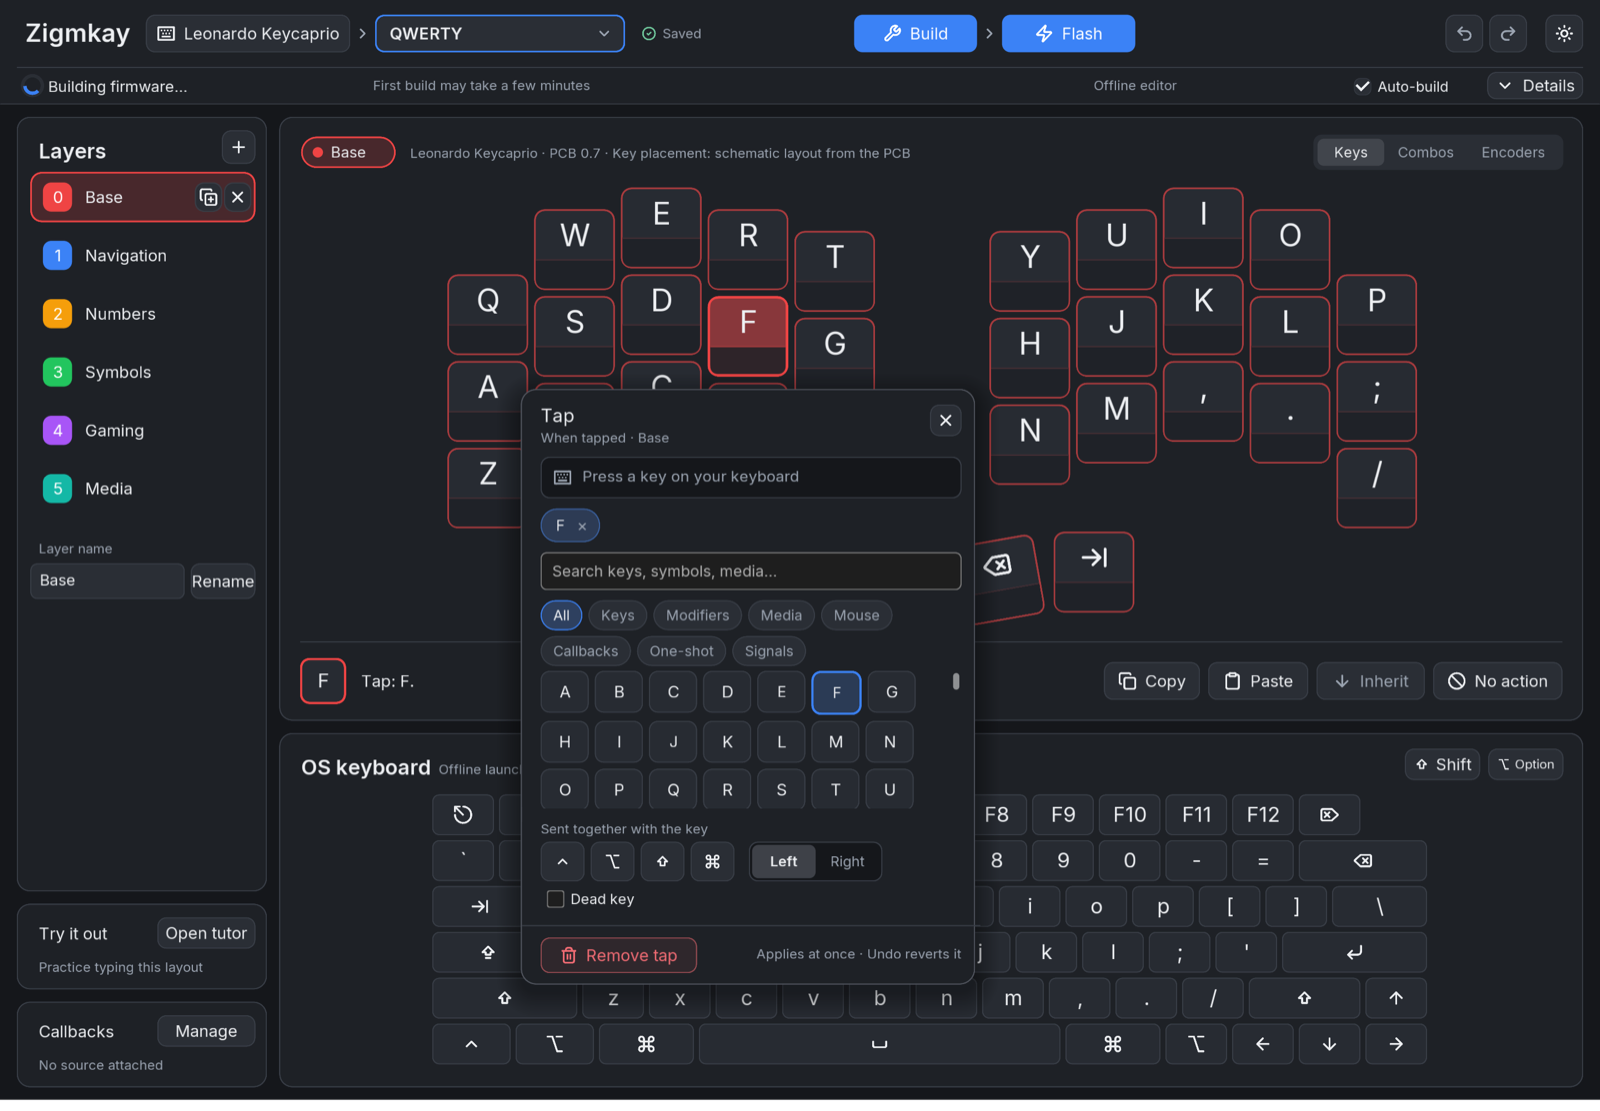
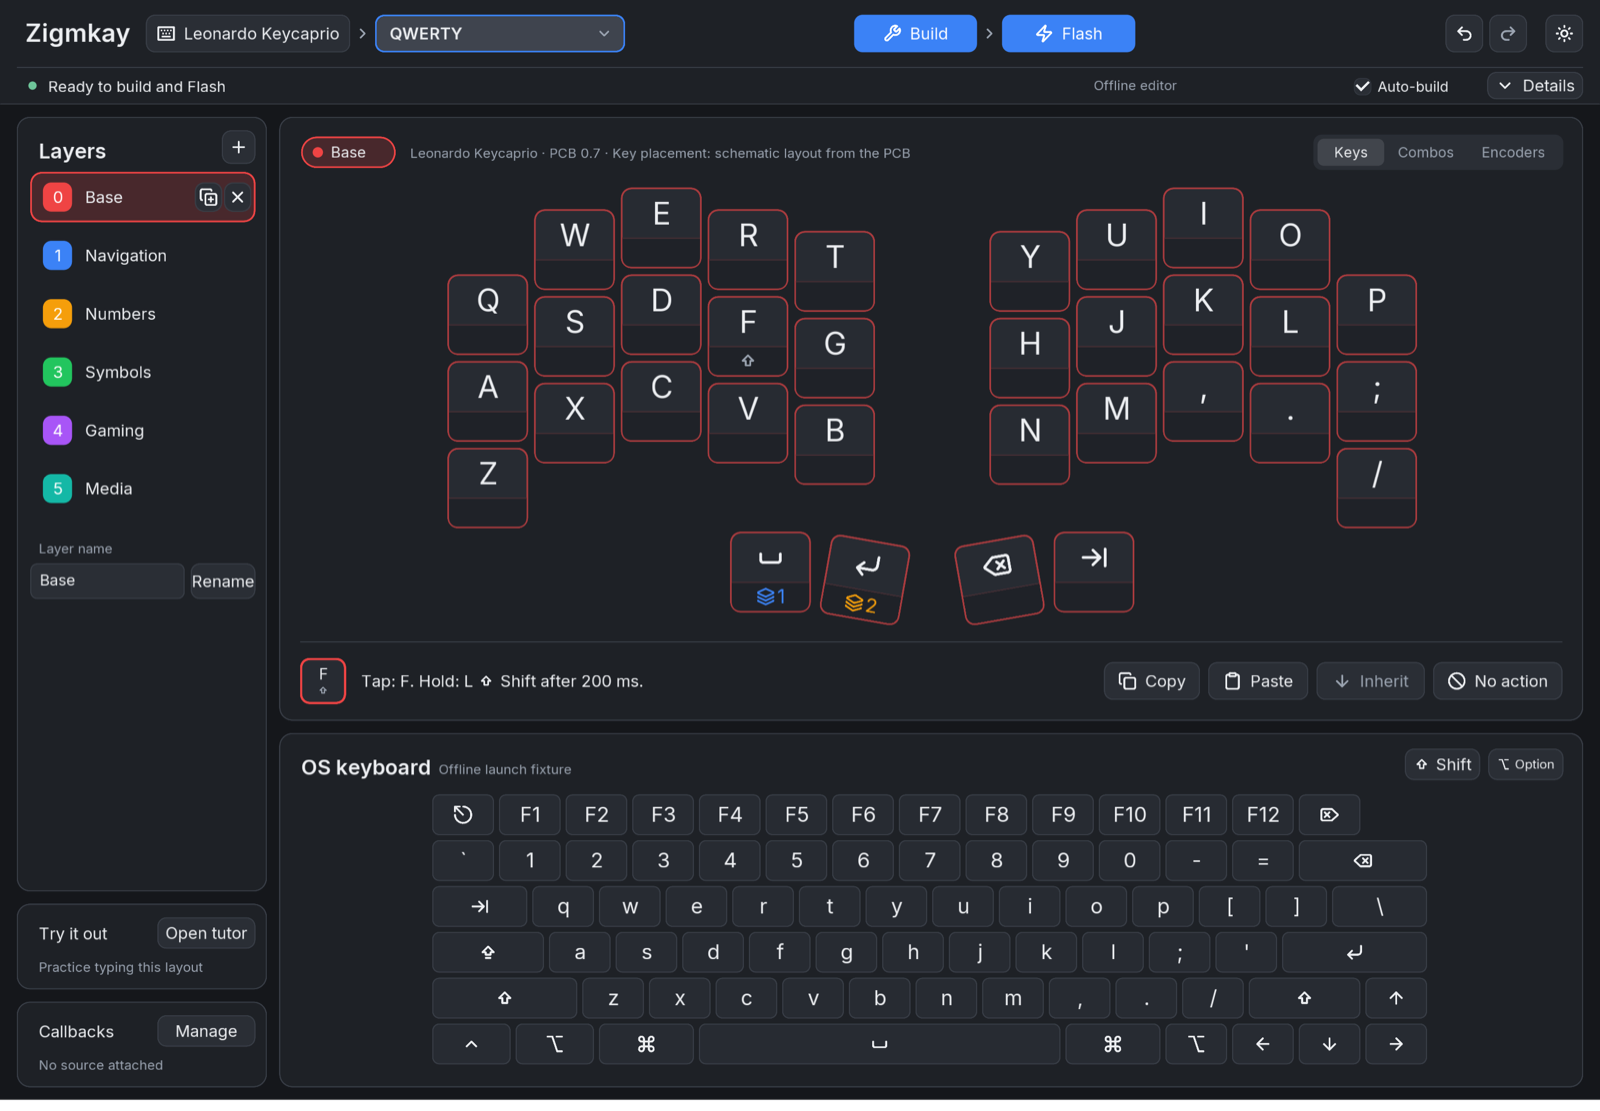
show the plain editor in the README hero screenshot
The status fixture gains scene 6, the editor with nothing open and an
idle toolbar, and the README's first companion screenshot now comes
from it instead of the busier Tap picker frame.

diff --git a/README.md b/README.md
@@ -125,7 +125,7 @@ schematic of its PCB. Your board is not listed? See
 ## Companion
 
 <p align="center">
-  <img src="assets/screenshots/editor.png" alt="ZigMkay Companion editor: a Leonardo Keycaprio layout with six layers, the Tap picker open on the F key, the OS keyboard palette and Build and Flash in the toolbar" width="900">
+  <img src="assets/screenshots/editor.png" alt="ZigMkay Companion editor: a Leonardo Keycaprio layout with six layers, thumb keys fanned out like on the PCB, the OS keyboard palette and Build and Flash in the toolbar" width="900">
 </p>
 
 The [ZigMkay Companion](companion/README.md) is a native desktop application
